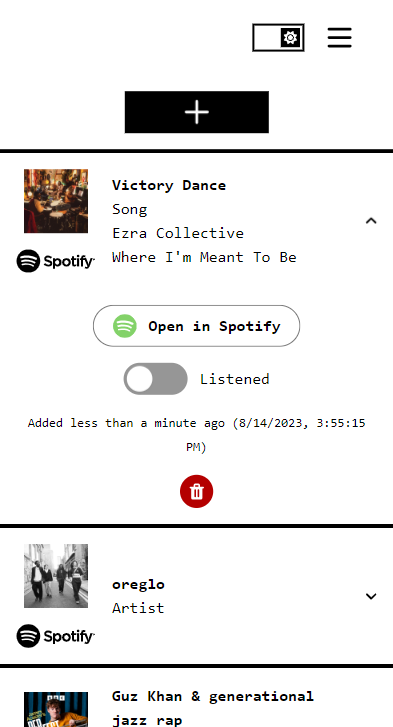
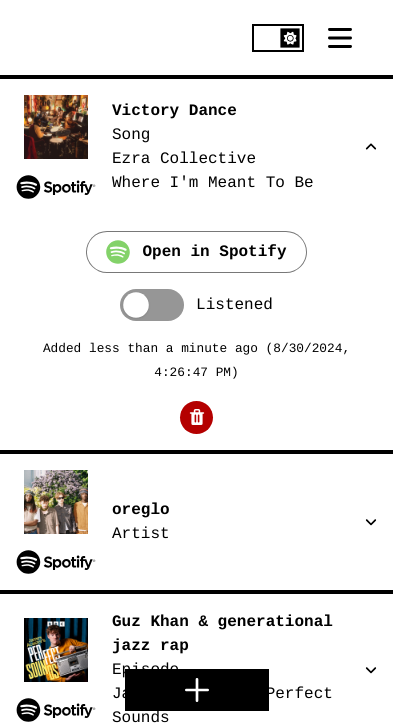
Move add button to be more reachable - Making bottom floating buttons more consistent in general

diff --git a/src/routes/list/add/+page.svelte b/src/routes/list/add/+page.svelte
@@ -171,133 +171,137 @@
 	};
 </script>
 
-<div class="sticky top-0 p-4 -mt-4 bg-surface-50-900-token">
-	<form on:submit|preventDefault={onSearchSubmit}>
-		<label class="label">
-			<span class="sr-only">Search</span>
-			<div class="input-group flex bg-surface-50-900-token !border-surface-900-50-token">
-				<div class="relative grow text-surface-900-50-token bg-surface-50-900-token !px-0 min-w-0">
-					<div class="absolute">
-						<SearchLoop />
+<div id="add-container" class="flex flex-col">
+	<div class="sticky top-0 p-4 -mt-4 bg-surface-50-900-token">
+		<form on:submit|preventDefault={onSearchSubmit}>
+			<label class="label">
+				<span class="sr-only">Search</span>
+				<div class="input-group flex bg-surface-50-900-token !border-surface-900-50-token">
+					<div
+						class="relative grow text-surface-900-50-token bg-surface-50-900-token !px-0 min-w-0"
+					>
+						<div class="absolute">
+							<SearchLoop />
+						</div>
+						<input
+							type="search"
+							placeholder="Search..."
+							bind:value={searchQuery}
+							disabled={$loading}
+							on:input={onSearchInput}
+							class="pl-14 pr-4 !bg-surface-50-900-token focus:!ring-4 focus:ring-inset focus:ring-surface-500 grow min-w-0"
+						/>
 					</div>
-					<input
-						type="search"
-						placeholder="Search..."
-						bind:value={searchQuery}
+					<button
+						class="bg-surface-900-50-token text-surface-50-900-token focus:-outline-offset-4"
 						disabled={$loading}
-						on:input={onSearchInput}
-						class="pl-14 pr-4 !bg-surface-50-900-token focus:!ring-4 focus:ring-inset focus:ring-surface-500 grow min-w-0"
-					/>
+					>
+						Submit
+					</button>
 				</div>
+			</label>
+			<small
+				role={showSearchError || showAddError ? 'alert' : ''}
+				class="text-error-600-300-token min-h-[1.5rem] block text-center"
+			>
+				{#if showSearchError}
+					Please enter a search query of at least {MINIMUM_SEARCH_QUERY_LENGTH} characters
+				{/if}
+				{#if showAddError}
+					Please search for and select an item to add
+				{/if}
+			</small>
+			<div class="mb-4 flex flex-wrap gap-4 justify-center">
+				<span class="sr-only">Filters</span>
+				{#each itemTypes as itemType}
+					<span
+						class="chip rounded-token"
+						class:variant-filled={itemTypeFilters[itemType]}
+						class:variant-soft-surface={!itemTypeFilters[itemType]}
+						on:click={() => filterItemTypes(itemType)}
+						on:keypress={(event) => {
+							if (event.key == ' ' || event.code == 'Space' || event.keyCode == 32) {
+								filterItemTypes(itemType);
+								event.preventDefault();
+							}
+						}}
+						role="checkbox"
+						aria-checked={itemTypeFilters[itemType]}
+						tabindex="0"
+					>
+						{#if itemTypeFilters[itemType]}<span><Check classes="h-2.5 w-2.5" /></span>{/if}
+						<span class="capitalize">{itemType + 's'}</span>
+					</span>
+				{/each}
 				<button
-					class="bg-surface-900-50-token text-surface-50-900-token focus:-outline-offset-4"
-					disabled={$loading}
+					class="chip rounded-token"
+					class:variant-soft-error={itemTypeFiltersClear}
+					class:variant-filled-error={!itemTypeFiltersClear}
+					on:click={clearItemTypeFilters}
+					type="button"
 				>
-					Submit
+					Clear <span class="sr-only">filters</span>
 				</button>
 			</div>
-		</label>
-		<small
-			role={showSearchError || showAddError ? 'alert' : ''}
-			class="text-error-600-300-token min-h-[1.5rem] block text-center"
-		>
-			{#if showSearchError}
-				Please enter a search query of at least {MINIMUM_SEARCH_QUERY_LENGTH} characters
-			{/if}
-			{#if showAddError}
-				Please search for and select an item to add
-			{/if}
-		</small>
-		<div class="mb-4 flex flex-wrap gap-4 justify-center">
-			<span class="sr-only">Filters</span>
-			{#each itemTypes as itemType}
-				<span
-					class="chip rounded-token"
-					class:variant-filled={itemTypeFilters[itemType]}
-					class:variant-soft-surface={!itemTypeFilters[itemType]}
-					on:click={() => filterItemTypes(itemType)}
-					on:keypress={(event) => {
-						if (event.key == ' ' || event.code == 'Space' || event.keyCode == 32) {
-							filterItemTypes(itemType);
-							event.preventDefault();
-						}
-					}}
-					role="checkbox"
-					aria-checked={itemTypeFilters[itemType]}
-					tabindex="0"
-				>
-					{#if itemTypeFilters[itemType]}<span><Check classes="h-2.5 w-2.5" /></span>{/if}
-					<span class="capitalize">{itemType + 's'}</span>
-				</span>
-			{/each}
-			<button
-				class="chip rounded-token"
-				class:variant-soft-error={itemTypeFiltersClear}
-				class:variant-filled-error={!itemTypeFiltersClear}
-				on:click={clearItemTypeFilters}
-				type="button"
-			>
-				Clear <span class="sr-only">filters</span>
-			</button>
-		</div>
-	</form>
-</div>
+		</form>
+	</div>
 
-<div aria-live="assertive">
-	{#if searching}
-		<Loading />
-	{:else if !filteredResults.length}
-		<div class="m-4 text-center">
-			{#if searchErrored}
-				<span role="alert" class="text-error-600-300-token">
-					There was an error when fetching search results, please try again
-				</span>
-			{:else if lastSearchQuery}
-				<span>Nothing found</span>
-				<span>
-					Please try {searchResults.length
-						? 'adjusting the filters'
-						: 'searching for something else'}.
-				</span>
-			{:else}
-				<span>Search for something above 👆</span>
-			{/if}
-		</div>
-	{:else}
-		<span class="sr-only">
-			Showing {itemTypeFiltersClear ? 'all' : itemTypeFiltersFriendlyDescription()}
-			search results.
-		</span>
-		<ListBox spacing="">
-			{#each filteredResults as item, i (item.id)}
-				<ListBoxItem
-					bind:group={selectedItemId}
-					name="item"
-					value={item.id}
-					padding="p-4 focus:!-outline-offset-4"
-					on:click={onItemClick}
-				>
-					<div id={item.id} class="flex gap-4 items-center" class:cursor-not-allowed={$loading}>
-						<div class="flex flex-col gap-4 shrink-0 justify-center items-center">
-							<ItemImage itemMetadata={item} />
-							<SpotifyLogo classes="w-20" />
-						</div>
-						<div class="flex flex-col">
-							<span class="font-semibold">
-								{item.name}
-							</span>
-							{#each item.metadataParts as metadataPart}
-								<span class="break-word">{metadataPart}</span>
-							{/each}
-						</div>
-					</div>
-				</ListBoxItem>
-				{#if i !== filteredResults.length - 1}
-					<hr class="!border-t-4" />
+	<div aria-live="assertive">
+		{#if searching}
+			<Loading />
+		{:else if !filteredResults.length}
+			<div class="m-4 text-center">
+				{#if searchErrored}
+					<span role="alert" class="text-error-600-300-token">
+						There was an error when fetching search results, please try again
+					</span>
+				{:else if lastSearchQuery}
+					<span>Nothing found</span>
+					<span>
+						Please try {searchResults.length
+							? 'adjusting the filters'
+							: 'searching for something else'}.
+					</span>
+				{:else}
+					<span>Search for something above 👆</span>
 				{/if}
-			{/each}
-		</ListBox>
-	{/if}
+			</div>
+		{:else}
+			<span class="sr-only">
+				Showing {itemTypeFiltersClear ? 'all' : itemTypeFiltersFriendlyDescription()}
+				search results.
+			</span>
+			<ListBox spacing="">
+				{#each filteredResults as item, i (item.id)}
+					<ListBoxItem
+						bind:group={selectedItemId}
+						name="item"
+						value={item.id}
+						padding="p-4 focus:!-outline-offset-4"
+						on:click={onItemClick}
+					>
+						<div id={item.id} class="flex gap-4 items-center" class:cursor-not-allowed={$loading}>
+							<div class="flex flex-col gap-4 shrink-0 justify-center items-center">
+								<ItemImage itemMetadata={item} />
+								<SpotifyLogo classes="w-20" />
+							</div>
+							<div class="flex flex-col">
+								<span class="font-semibold">
+									{item.name}
+								</span>
+								{#each item.metadataParts as metadataPart}
+									<span class="break-word">{metadataPart}</span>
+								{/each}
+							</div>
+						</div>
+					</ListBoxItem>
+					{#if i !== filteredResults.length - 1}
+						<hr class="!border-t-4" />
+					{/if}
+				{/each}
+			</ListBox>
+		{/if}
+	</div>
 </div>
 
 <div class="sticky bottom-0 -mb-4 p-4 flex justify-center gap-4 bg-surface-50-900-token">
@@ -318,3 +322,14 @@
 		Cancel
 	</button>
 </div>
+
+<style>
+	#add-container {
+		min-height: calc(
+			100vh - (4.6875rem + 1rem + 3.625rem)
+		); /* Top bar + bottom padding + add and cancel buttons */
+		min-height: calc(
+			100svh - (4.6875rem + 1rem + 3.625rem)
+		); /* Top bar + bottom padding + add and cancel buttons */
+	}
+</style>

diff --git a/src/routes/list/+page.svelte b/src/routes/list/+page.svelte
@@ -30,21 +30,11 @@
 {#if $items === undefined}
 	<Loading />
 {:else}
-	<h1 class="sr-only">List</h1>
-	<a
-		href="/list/add"
-		class="btn bg-surface-900-50-token text-surface-50-900-token sticky top-4 left-1/2 -translate-x-1/2 w-36"
-		class:opacity-50={$loading}
-		class:cursor-not-allowed={$loading}
-		on:click={(event) => preventDefaultIf(event, $loading)}
-	>
-		<Plus />
-		<span class="sr-only">Add item</span>
-	</a>
-	<div class="mt-5 mb-1">
+	<div id="list-container" class="flex flex-col gap-4">
+		<h1 class="sr-only">List</h1>
 		{#if !$items.length}
 			<span class="block text-center mx-4" transition:slideWithPrefersReducedMotion>
-				Nothing here yet! Use the button above to add an item 👆
+				Nothing here yet! Use the button below to add an item 👇
 			</span>
 		{:else if $user?.isAnonymous}
 			<PromoteAccountAlert>
@@ -72,4 +62,25 @@
 			{/each}
 		</Accordion>
 	</div>
+	<a
+		href="/list/add"
+		class="btn bg-surface-900-50-token text-surface-50-900-token mt-5 sticky bottom-4 left-1/2 -translate-x-1/2 w-36"
+		class:opacity-50={$loading}
+		class:cursor-not-allowed={$loading}
+		on:click={(event) => preventDefaultIf(event, $loading)}
+	>
+		<Plus />
+		<span class="sr-only">Add item</span>
+	</a>
 {/if}
+
+<style>
+	#list-container {
+		min-height: calc(
+			100vh - (4.6875rem + 1rem + 3.875rem)
+		); /* Top bar + bottom padding + add button */
+		min-height: calc(
+			100svh - (4.6875rem + 1rem + 3.875rem)
+		); /* Top bar + bottom padding + add button */
+	}
+</style>

diff --git a/src/routes/list/settings/+page.svelte b/src/routes/list/settings/+page.svelte
@@ -53,10 +53,7 @@
 </script>
 
 <h1 class="sr-only">Settings</h1>
-<div
-	id="settings-container"
-	class="flex flex-col min-h-[calc(100vh - 4rem)] min-h-[calc(100svh - 4rem)]"
->
+<div id="settings-container" class="flex flex-col gap-4">
 	{#if $user?.isAnonymous}
 		<PromoteAccountAlert>
 			<svelte:fragment slot="signInButton">
@@ -70,7 +67,7 @@
 		</PromoteAccountAlert>
 	{/if}
 
-	<div class="flex flex-col gap-4 ring-4 ring-surface-900-50-token mt-1 mb-5 p-4">
+	<div class="flex flex-col gap-4 ring-4 ring-surface-900-50-token mt-1 mb-1 p-4">
 		<h2 class="h2">Spotify</h2>
 		<p>
 			Listen Later currently only supports searching Spotify for songs etc. available to the
@@ -84,9 +81,7 @@
 		</p>
 	</div>
 
-	<div class="grow" />
-
-	<div class="flex flex-col items-center py-4">
+	<div class="flex flex-col items-center justify-end grow">
 		<button on:click={deleteAccount} class="btn variant-filled-error btn-2xl">
 			Delete account
 		</button>
@@ -95,6 +90,7 @@
 
 <style>
 	#settings-container {
-		min-height: calc(100svh - 6.75rem);
+		min-height: calc(100vh - (4.6875rem + 1rem)); /* Top bar + bottom padding */
+		min-height: calc(100svh - (4.6875rem + 1rem)); /* Top bar + bottom padding */
 	}
 </style>

diff --git a/src/lib/components/PromoteAccountAlert.svelte b/src/lib/components/PromoteAccountAlert.svelte
@@ -8,7 +8,7 @@
 
 <div
 	role="alert"
-	class="alert variant-filled-error ring-4 ring-surface-900-50-token mt-1 mb-5"
+	class="alert variant-filled-error ring-4 ring-surface-900-50-token mt-1 mb-1"
 	transition:slideWithPrefersReducedMotion
 >
 	<div class="alert-message">

diff --git a/src/routes/list/+layout.svelte b/src/routes/list/+layout.svelte
@@ -31,7 +31,7 @@
 	<meta name="robots" content="noindex" />
 </svelte:head>
 
-<div class="max-w-2xl mx-auto py-4" aria-live="polite">
+<div class="max-w-2xl mx-auto pb-4" aria-live="polite">
 	{#if $user === undefined}
 		<Loading />
 	{:else if $user === null}
